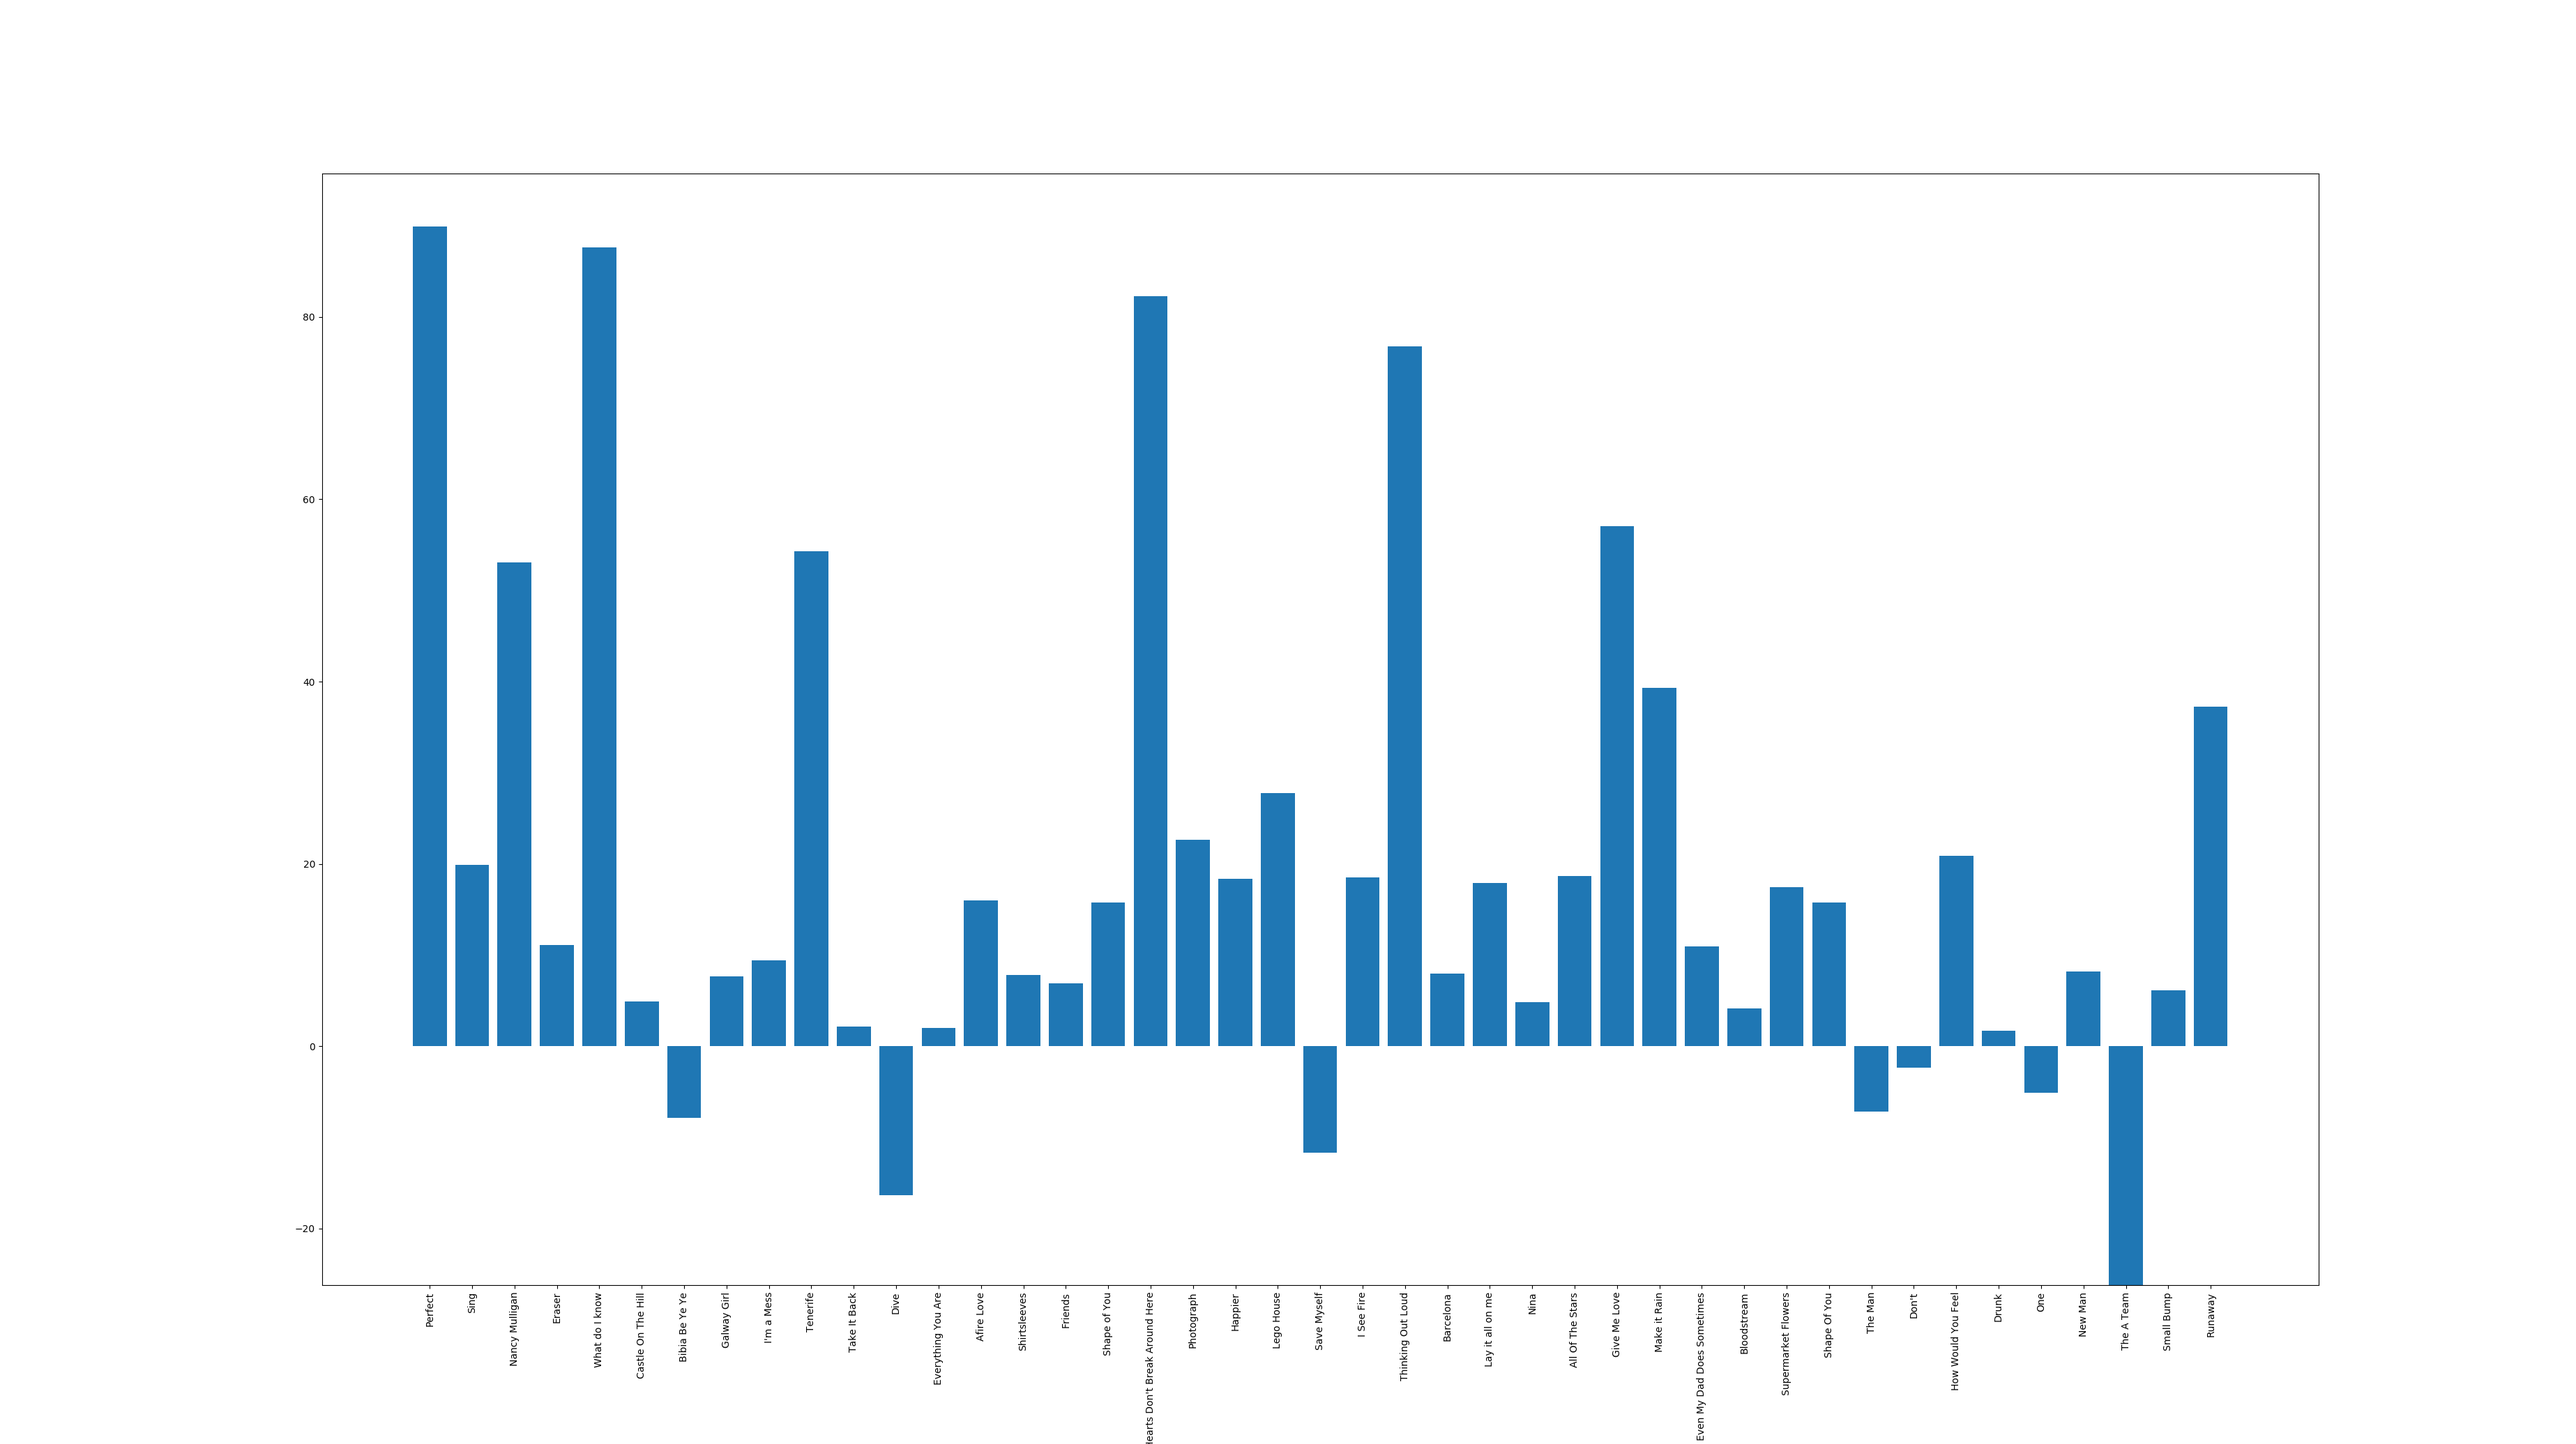
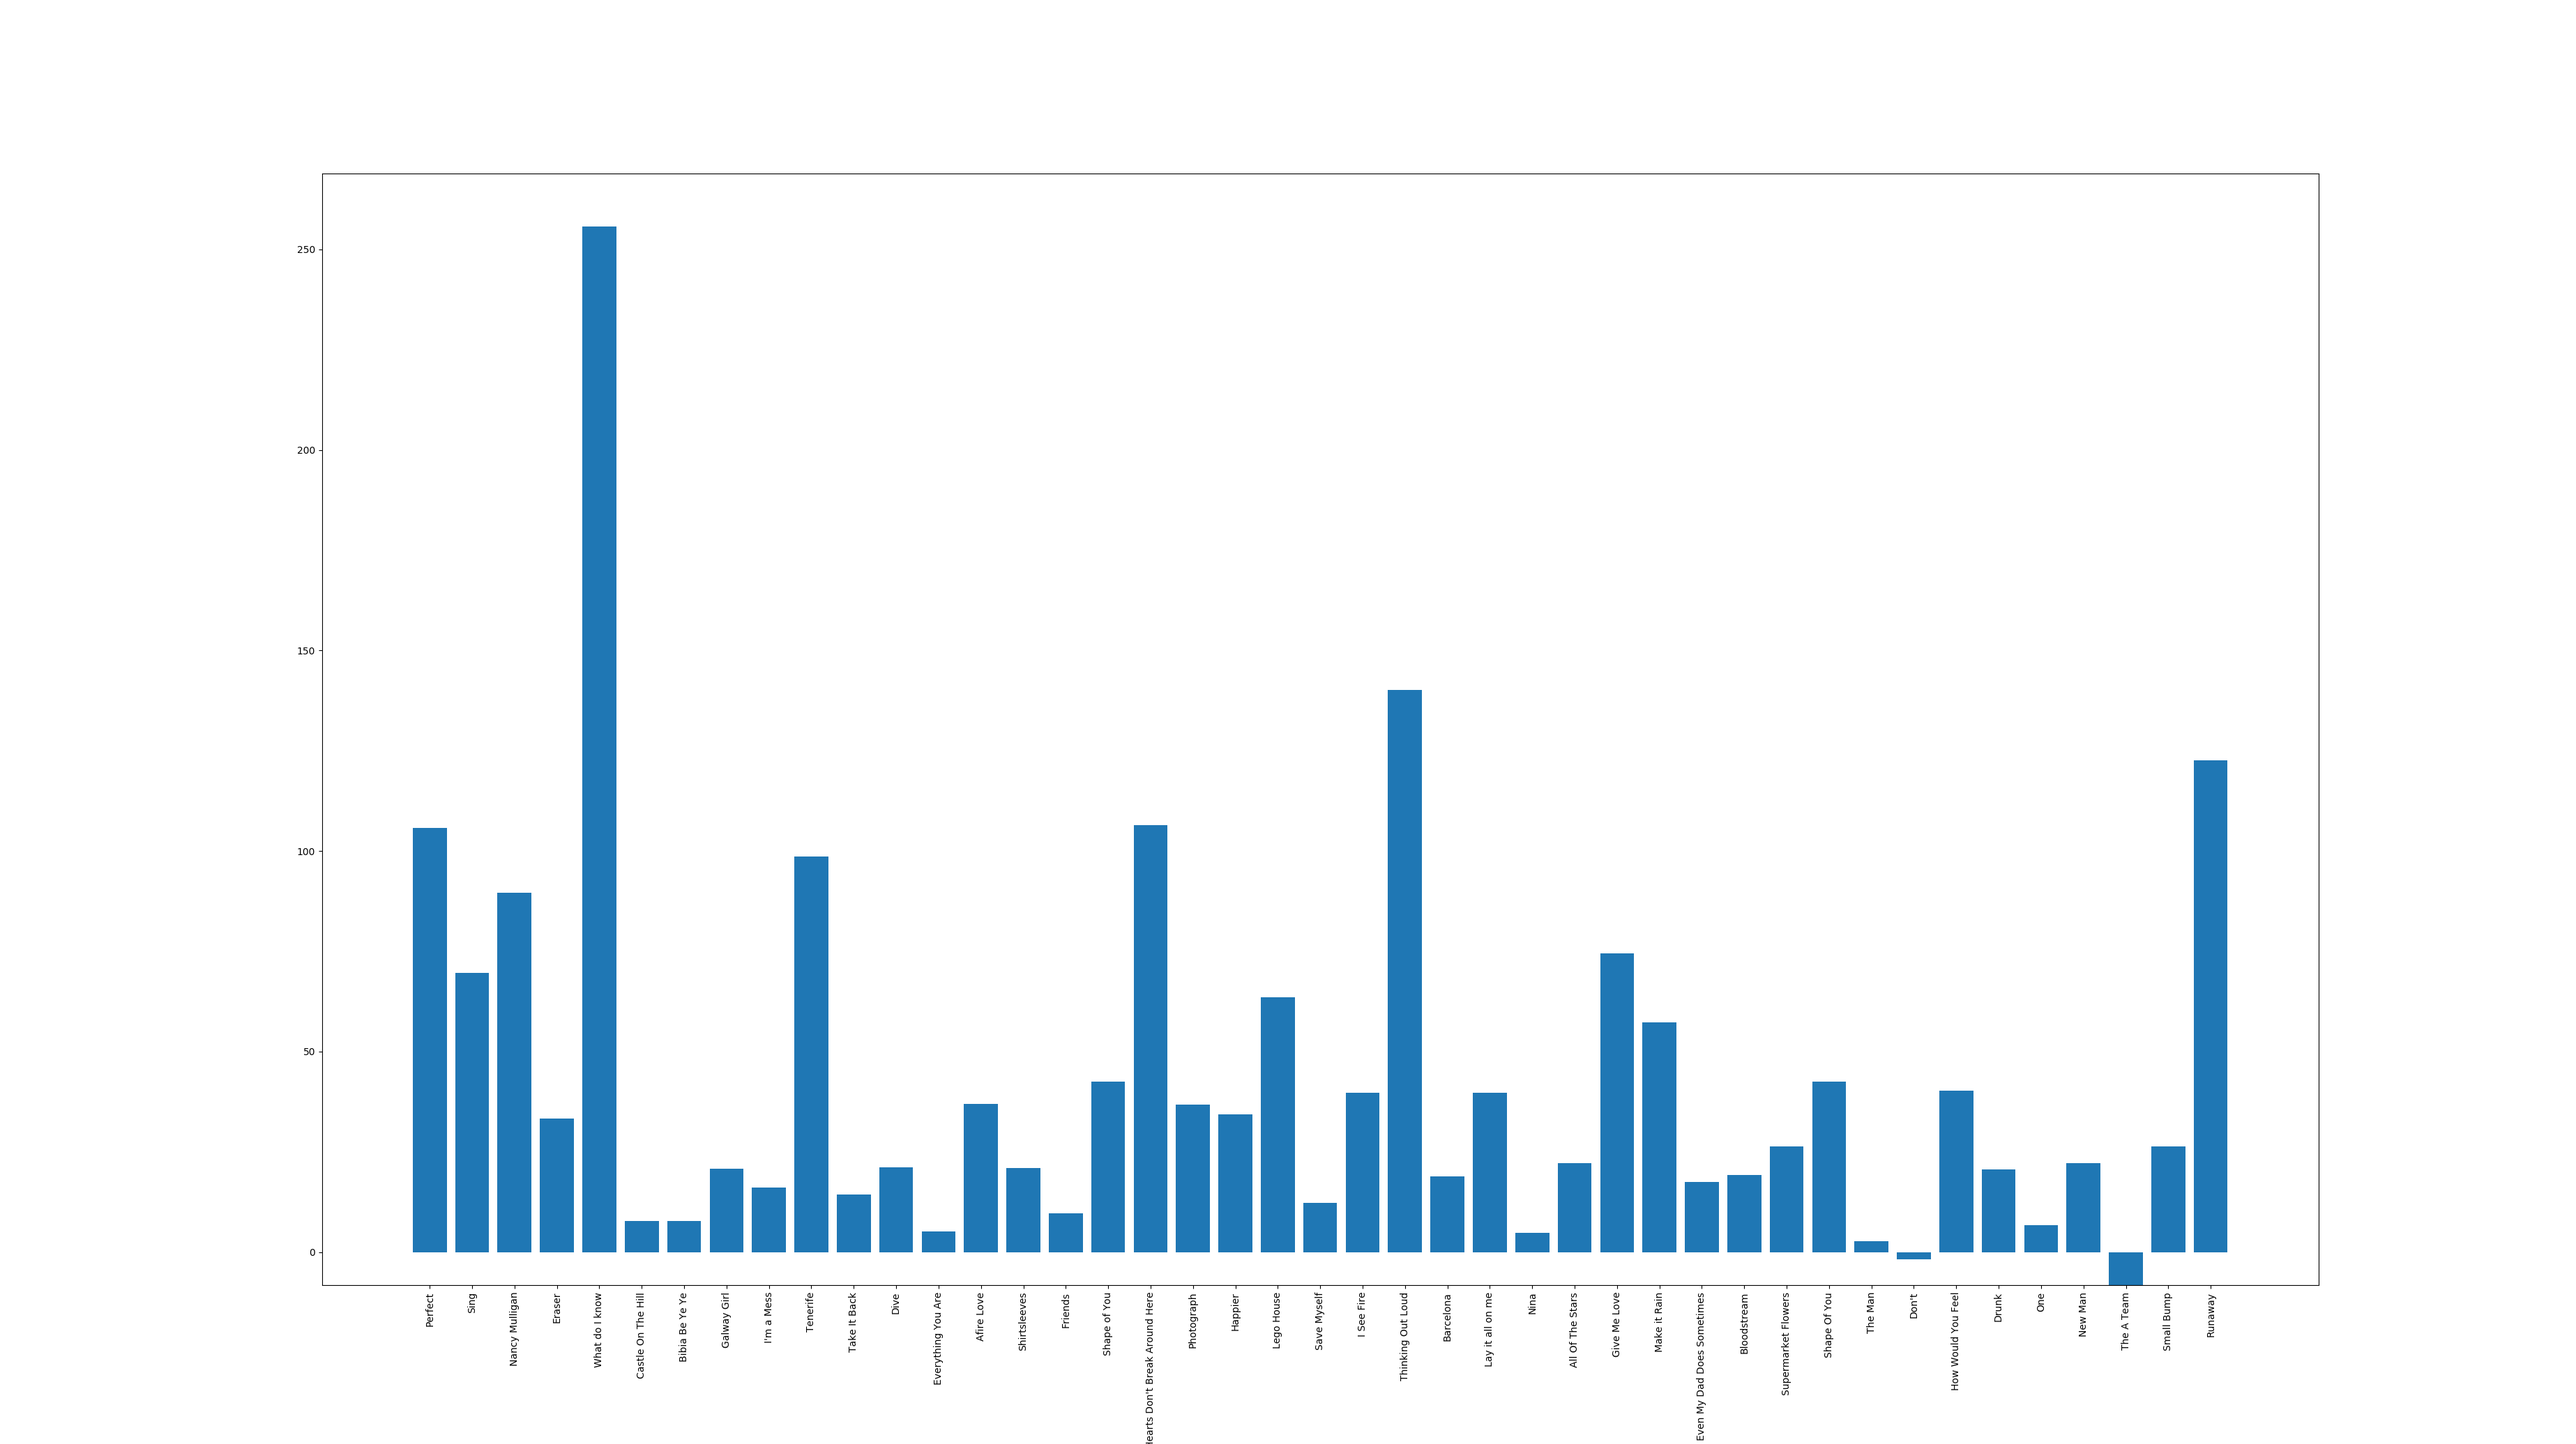
changed formula

diff --git a/audio_analysis.py b/audio_analysis.py
@@ -21,7 +21,7 @@ for song in songs:
   song["valence"]=features[0]["valence"]
   song ["speechiness"]=features[0]["speechiness"]
 
-  song["sentiment_index"] = ((song["sentiment_score"]*song["sentiment_magnitude"])+song["valence"])/song["speechiness"]
+  song["sentiment_index"] = ((song["sentiment_score"]+song["valence"])*song["sentiment_magnitude"])/song["speechiness"]
 
 with open('songs.json','w') as outfile:
   json.dump(songs,outfile,sort_keys=True,indent=2)

diff --git a/plotSentiIndex.py b/plotSentiIndex.py
@@ -10,7 +10,7 @@ D={}
 
 # a dictionary where key is the name of song and value is sentiment_index
 for song in songs:
-  D[song["song"]] = math.log(song["sentiment_index"]**2)
+  D[song["song"]] = song["sentiment_index"]
 
 plt.bar(range(len(D)), D.values(), align='center')
 
